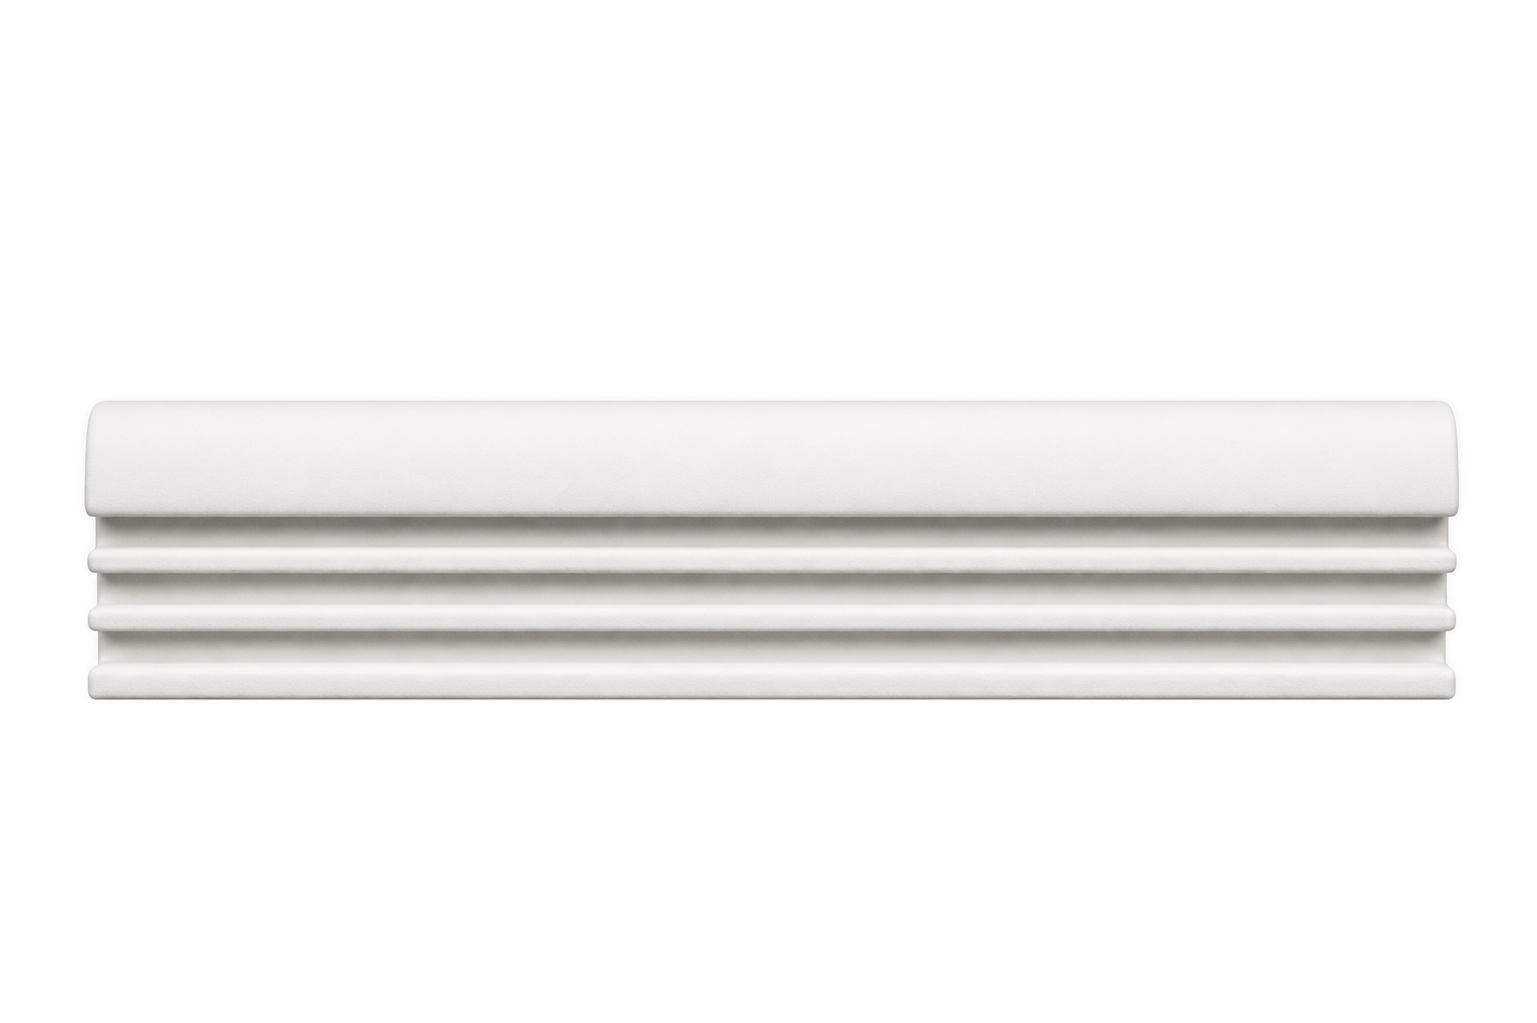
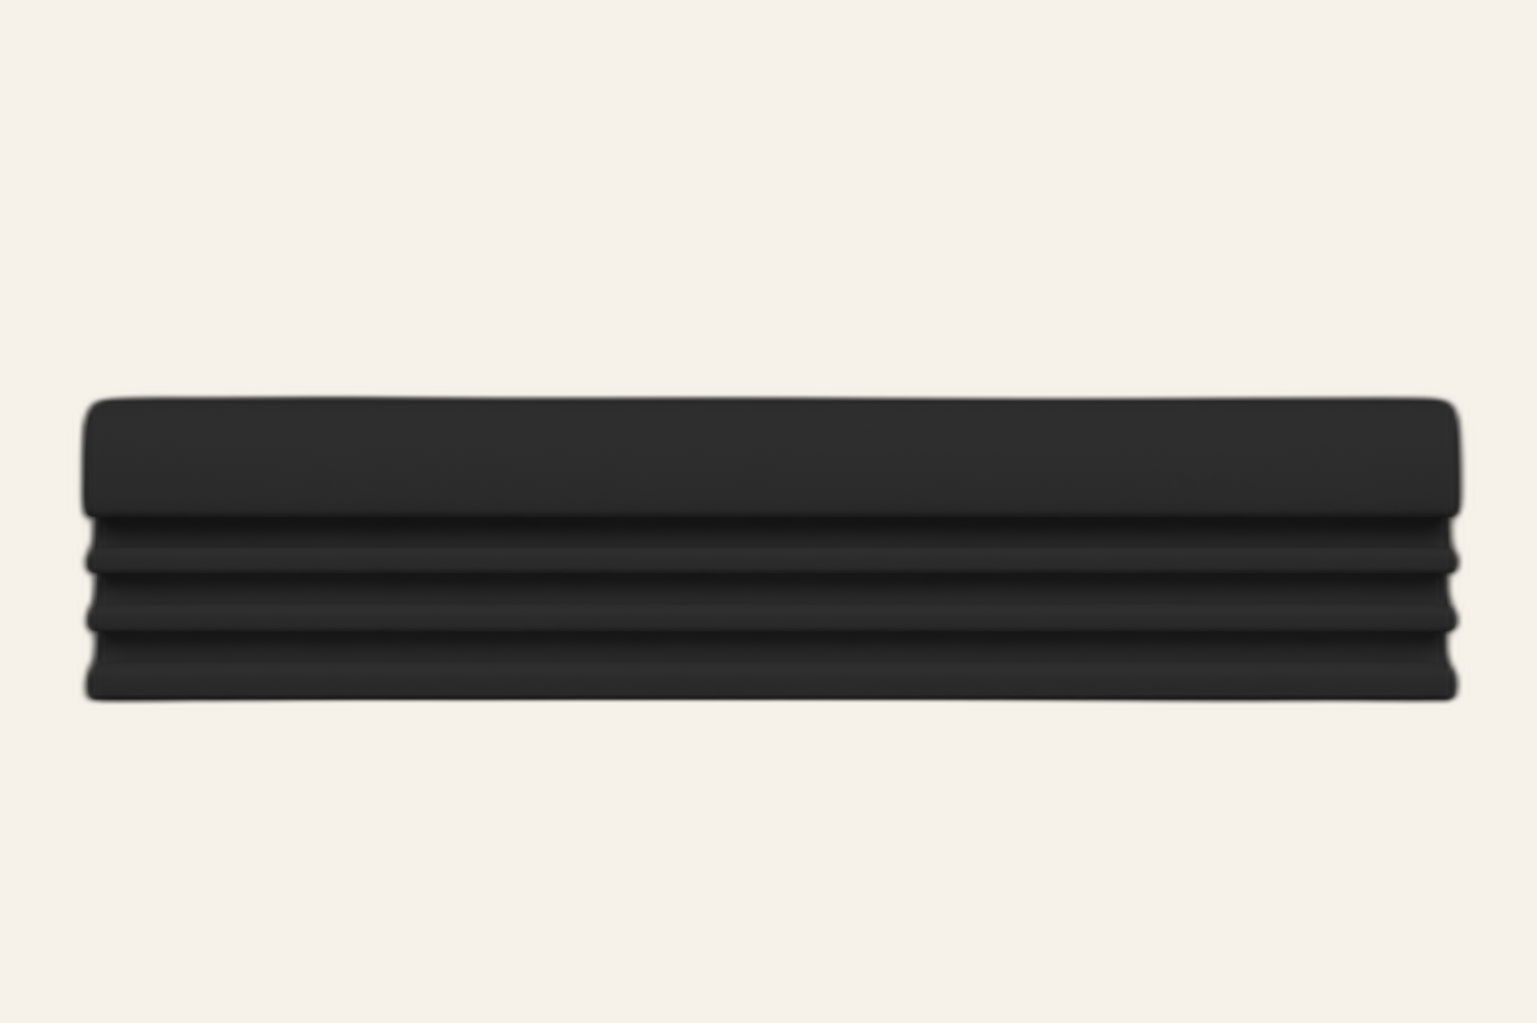
Correct Evolv Kilter Basic Long material

Changed region(s): [[0.0312, 0.3636, 0.9681, 0.697]]

diff --git a/docs/source-audits/2026-08-30-hangboard-presentation-remediation.md b/docs/source-audits/2026-08-30-hangboard-presentation-remediation.md
@@ -1,5 +1,59 @@
 # Hangboard Presentation Remediation Phase 1 Source Audit
 
+## 2026-08-31 Evolv/Kilter Basic Training Board (Long) material correction
+
+This correction covers every declared presentation of
+`evolv-kilter-basic-long`: `board.json` declares exactly one presentation,
+`primary` (`Primary`, default), at `assets/primary.png`. There is no reverse,
+side, alternate mounting position, or other selectable orientation in this
+package. The one asset remains orthographic to its own front working surface;
+its four horizontal contact bands are parallel, its two ends are equally
+foreshortened, and no side plane or angled installation view is visible.
+
+Live evidence was searched and reopened on 2026-08-31. Evolv's current
+[official Basic Training Board (Long) page](https://www.evolvsports.com/en-us/basic-training-board-_long_-66-0000082105)
+explicitly specifies `Color: BLACK`, resin material, 79 x 16 x 6 cm long-board
+dimensions, and the complete four-contact inventory: rounded jug plus 20, 15,
+and 10 mm rounded edges. Its published straight-on and detail images show a
+dark, subtly mottled resin body with the same top jug and three full-width
+lower edge bands. The independent
+[Backcountry product listing and gallery](https://www.backcountry.com/evolv-basic-training-board)
+independently publishes the black resin/Kilter Grip treatment, the same
+four-band silhouette in straight-on and oblique photos, and the distinct long
+31 x 6.25 x 2.25 inch size. The independent ended
+[eBay long-board listing](https://www.ebay.com/itm/326431990533) additionally
+identifies the exact long Evolv product and its black exterior. The original
+catalog geometry and head-on composition therefore conformed, but its white
+material color contradicted both official and independent published evidence.
+
+The original 1537 x 1023 RGBA asset had SHA-256
[1 lines of base64/hex data omitted]
+The corrected 1537 x 1023 RGBA asset has SHA-256
[1 lines of base64/hex data omitted]
+The bounded deterministic transform decoded the existing premultiplied-sRGB
+pixels, used the authored alpha channel as the sole product boundary, and
+applied one global neutral-black tone mapping to every nontransparent authored
+pixel: `round(6 + 42 * luminance^1.55)`. It then source-over composited those
+remapped product pixels and their unchanged authored alpha edges onto the
+shared `#F6F2EA` studio background and flattened the result. This preserves
+the original silhouette, soft cast shadow, rounded resin relief, fine surface
+texture, four-contact topology, rail separation, framing, and head-on geometry
+while correcting white material to the source-published charcoal-black resin.
+There was no resize, crop, padding, warp, perspective correction, blur,
+denoising, segmentation, generated mask or contour, registration, redraw,
+replacement geometry, or generated product pixel.
+
+`board.json` remained byte-identical at SHA-256
[1 lines of base64/hex data omitted]
+The final owned headless Workbench capture
+`evolv-kilter-basic-long--ac4049aa3a2d.png` visibly aligns all four labeled
+canonical paths (`jug-rounded`, `edge-20`, `edge-15`, and `edge-10`) with their
+corresponding contact bands. Both `scripts/hangboard-packages.sh validate
+--root Hangboards --final-inventory` and `scripts/hangboard-packages.sh status
+--root Hangboards` passed with 61 complete packages and zero drafts. The
+machine remediation manifest is intentionally unchanged for the later
+consolidated lifecycle pass.
+
 ## 2026-08-31 Tension Grindstone Pro deterministic presentation repair
 
 This repair covers every declared presentation of `tension.grindstone-pro`:
